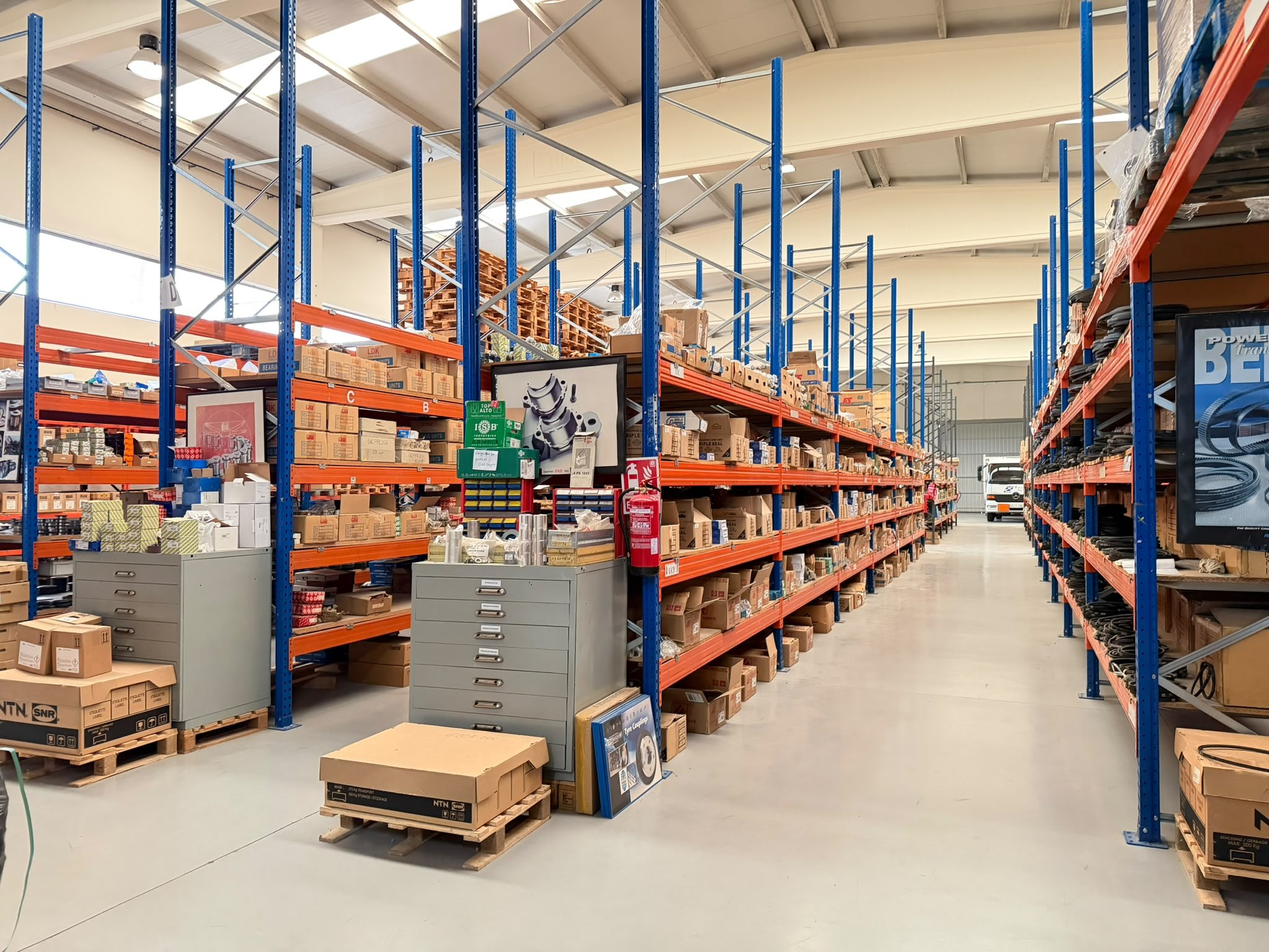
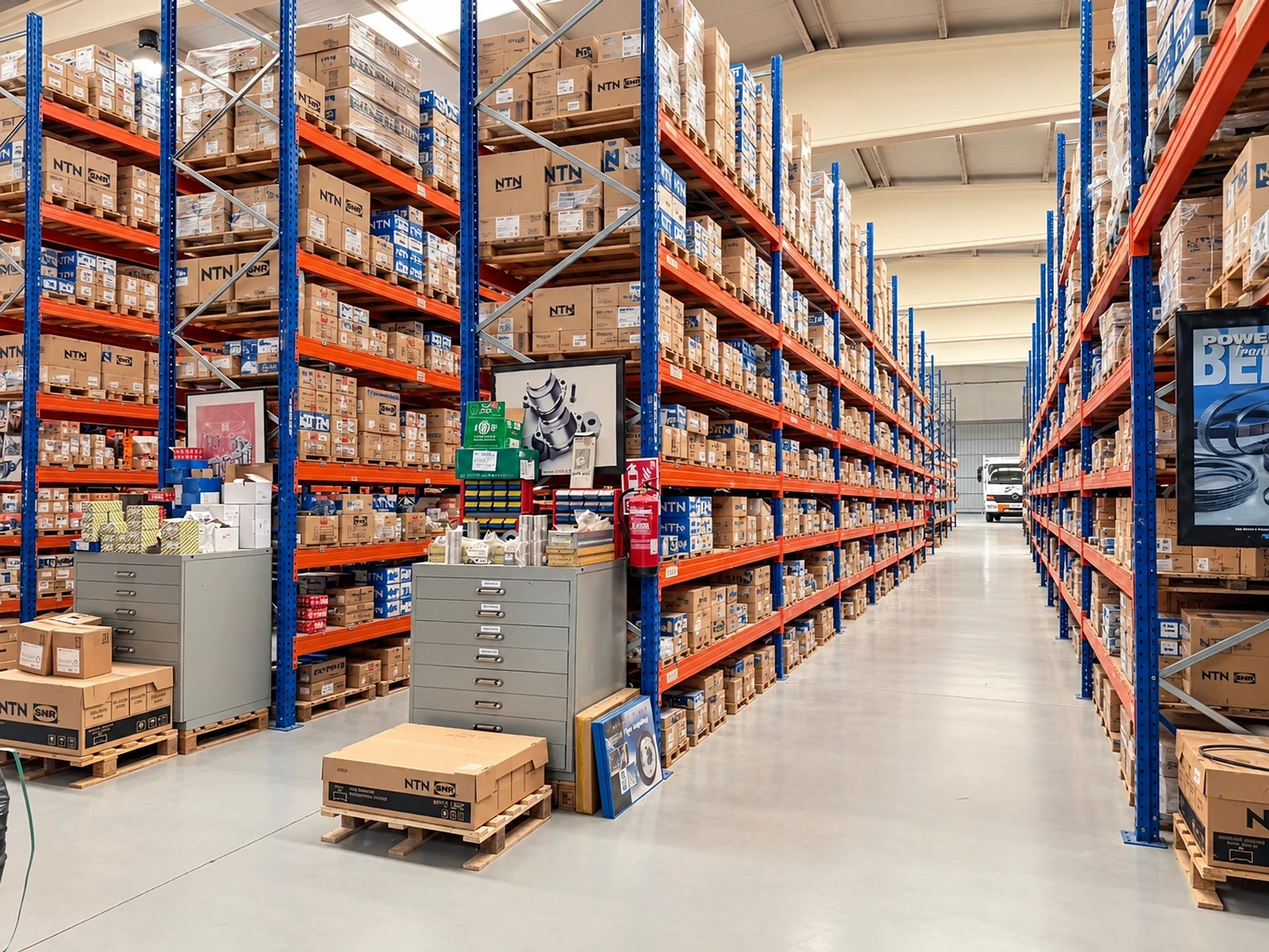
Foto de la nave: versión con más stock (decisión del cliente)
- Sustituye nave-almacen-suministro-industrial.jpg (portada y Empresa), ampliada a 2048 px
- Generada con IA: el cliente lo sabe y lo decide (los clientes no entran al almacén). Anotado en docs/FOTOS.md

diff --git a/docs/FOTOS.md b/docs/FOTOS.md
@@ -10,7 +10,7 @@ Todas las fotos tienen un **nombre descriptivo** de lo que se ve (ayuda al SEO y
 | Archivo | Qué es | Uso previsto | Estado |
 |---|---|---|---|
 | `fachada-rodaments-segria-lleida.jpg` | Fachada con el letrero corregido | **Portada (hero)** · Empresa · Contacto | ✅ 2000 px |
-| `nave-almacen-suministro-industrial.jpg` | Nave completa, camión al fondo | Inicio («El almacén…») · Empresa | ✅ Excelente |
+| `nave-almacen-suministro-industrial.jpg` | Nave completa con estanterías llenas, camión al fondo. **Versión generada con IA** (más cajas) por decisión del cliente (20-10-2026); ampliada de 1448 a 2048 px | Portada (almacén por dentro) · Empresa | 🟡 IA, decisión del cliente |
 | `pasillo-almacen-rodamientos.jpg` | Pasillo de rodamientos, vertical | Portada en móvil (alternativa) · Rodamientos | ✅ Excelente |
 | `estanterias-rodamientos-en-stock.jpg` | Pasillo de rodamientos, vertical | Stock · Empresa | ✅ Muy buena |
 | `pasillo-almacen-soportes-rodamientos.jpg` | Pasillo de soportes y unidades de rodamiento | Soportes · stock | ✅ Muy buena |
@@ -30,6 +30,7 @@ Todas las fotos tienen un **nombre descriptivo** de lo que se ve (ayuda al SEO y
 **Notas**
 - ✅ **Fachada:** versión mejorada y con el letrero corregido («RODAMENTS SEGRIÀ»), revisada letra a letra. Es la portada. 2000 px: en monitores muy grandes el diseño compensa la resolución. Original en `Botiga/Rodaments segria/fachada-rodaments-segria-corregida.jpg`.
 - **Regla:** no usar fotos mejoradas con IA donde salgan textos, logos o marcas. Las IAs reescriben lo que no leen bien.
+- **Excepción decidida por el cliente (20-10-2026):** la foto de la nave (`nave-almacen-suministro-industrial.jpg`) es una versión con IA con más stock. Motivo: los clientes no entran al almacén (se quedan en el mostrador) y se quiere transmitir mucho stock. Se le avisó de que tiene cajas inventadas y logos NTN-SNR deformados. Original en `Botiga/Rodaments segria/nave-almacen-mas-stock-ia.webp`. Si se hace la sesión de fotos, sustituirla por una real.
 - Las personas que aparecen al fondo del mostrador no son reconocibles: el cliente da el visto bueno.
 
 ## Descartadas
